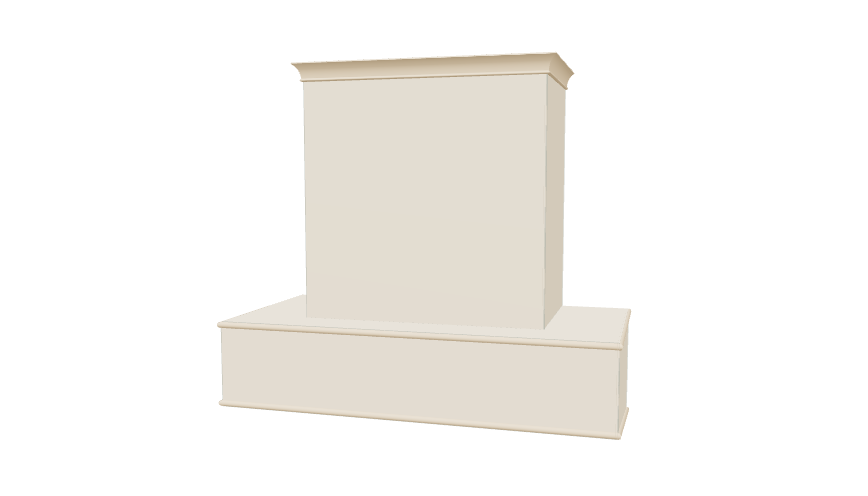
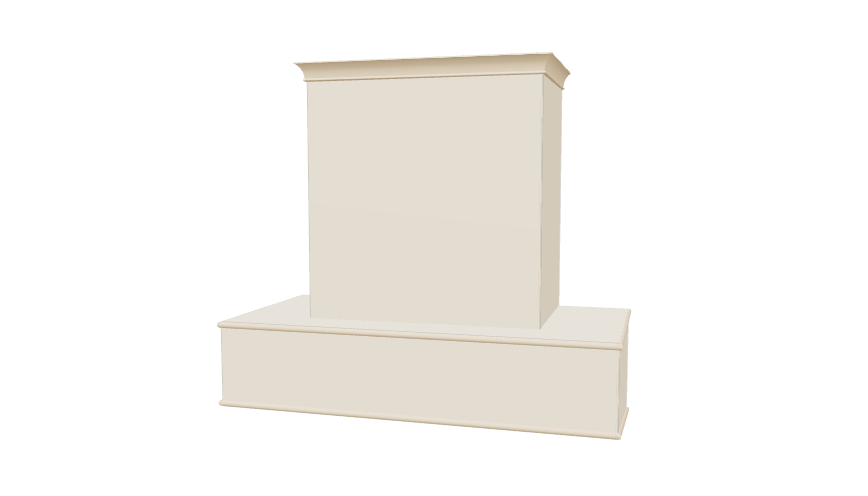
Clamp float chimney width to configurator limit

Changed region(s): [[0.6221, 0.0907, 0.6532, 0.6653], [0.3422, 0.1512, 0.3733, 0.5746]]

diff --git a/app.js b/app.js
@@ -51,7 +51,7 @@ const STYLES = [
   {
     id: "float", name: "极简方盒", tone: "暖米", desc: "无侧面 · 干净直边",
     curve: "none", start: "middle",
-    dims: { hoodWidth: 1000, hoodDepth: 500, rearHeight: 300, frontHeight: 220, chimneyWidth: 620, chimneyDepth: 380, chimneyHeight: 680 },
+    dims: { hoodWidth: 1000, hoodDepth: 500, rearHeight: 300, frontHeight: 220, chimneyWidth: 600, chimneyDepth: 380, chimneyHeight: 680 },
     trims: { top: "corner", start: "none", hoodTop: "single", hoodBottom: "single" },
     notch: { enabled: false, shape: "rect", width: 260, height: 50, offset: 90 },
   },
